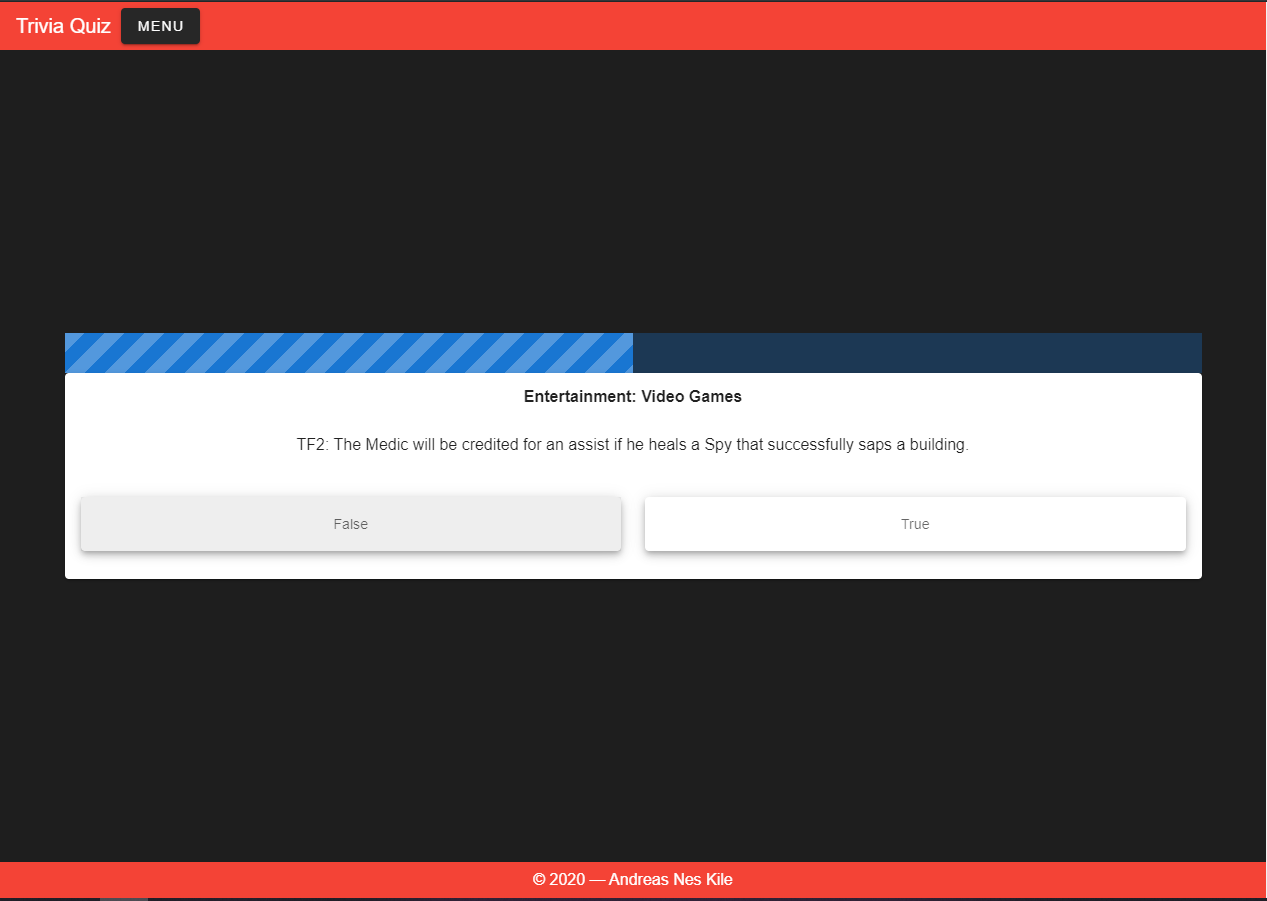
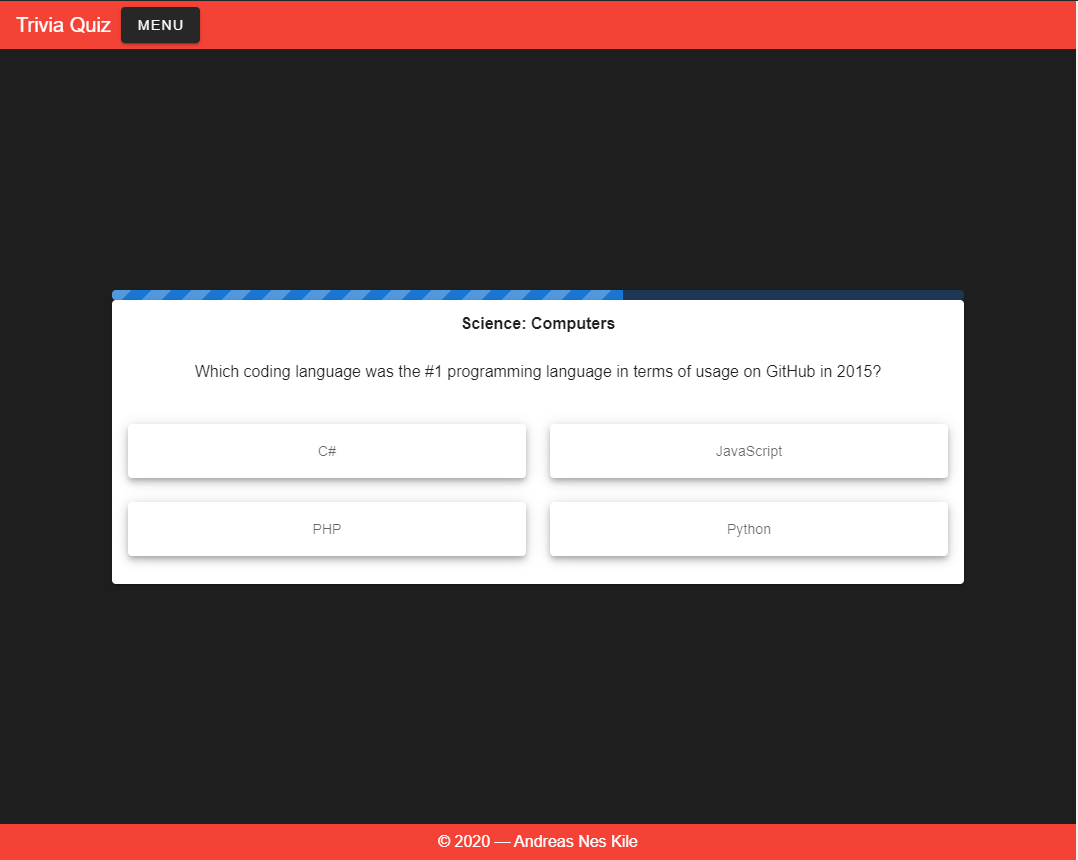
Fix: timebar

diff --git a/src/components/GamePlay.vue b/src/components/GamePlay.vue
@@ -1,7 +1,11 @@
 <template v-if="isReady">
   <v-container class="fill height" v-if="questions.length > 0">
-    <v-progress-linear striped stream height="40px" :value="countDown * 10"></v-progress-linear>
-    <quiz-question v-on:answer="updateGamePlay" :question="questions[currentQuestionIndex]" />
+    <v-row justify="center">
+      <v-col lg="6">
+        <v-progress-linear rounded striped stream height="10px" :value="countDown* 10"></v-progress-linear>
+        <quiz-question v-on:answer="updateGamePlay" :question="questions[currentQuestionIndex]" />
+      </v-col>
+    </v-row>
   </v-container>
 </template>
 
